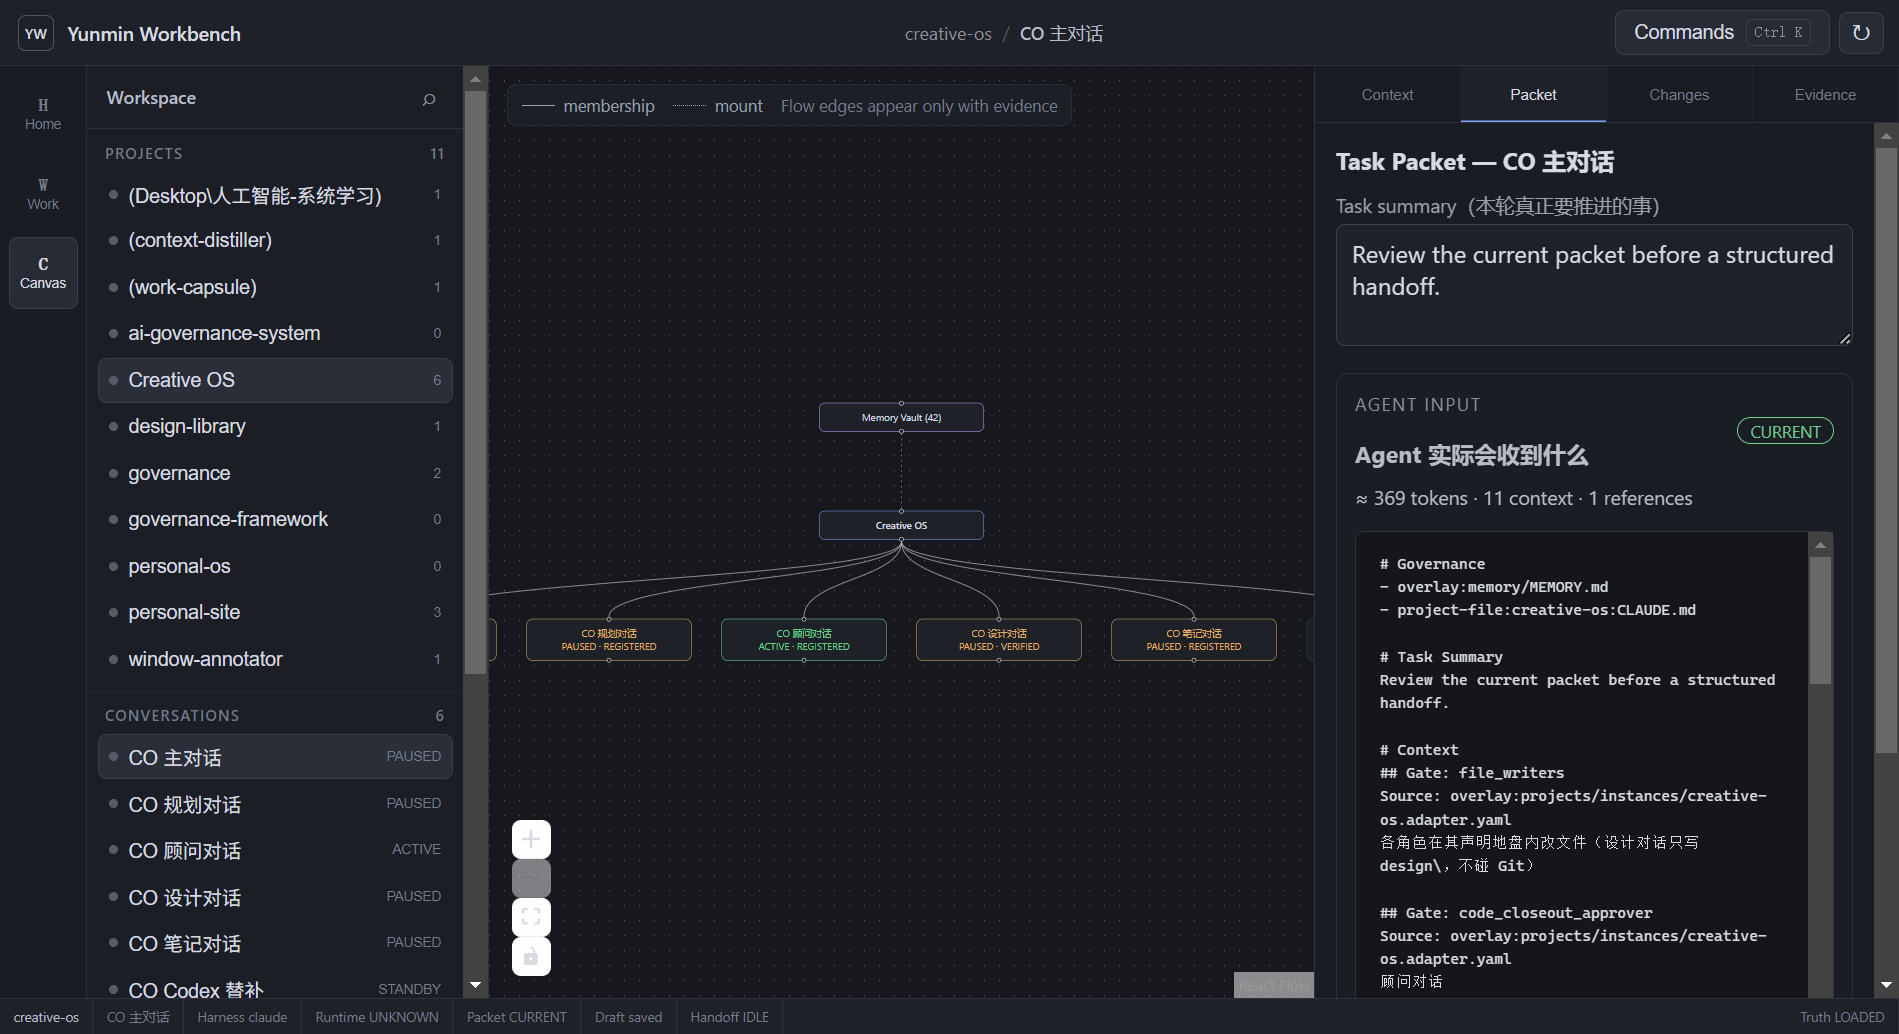
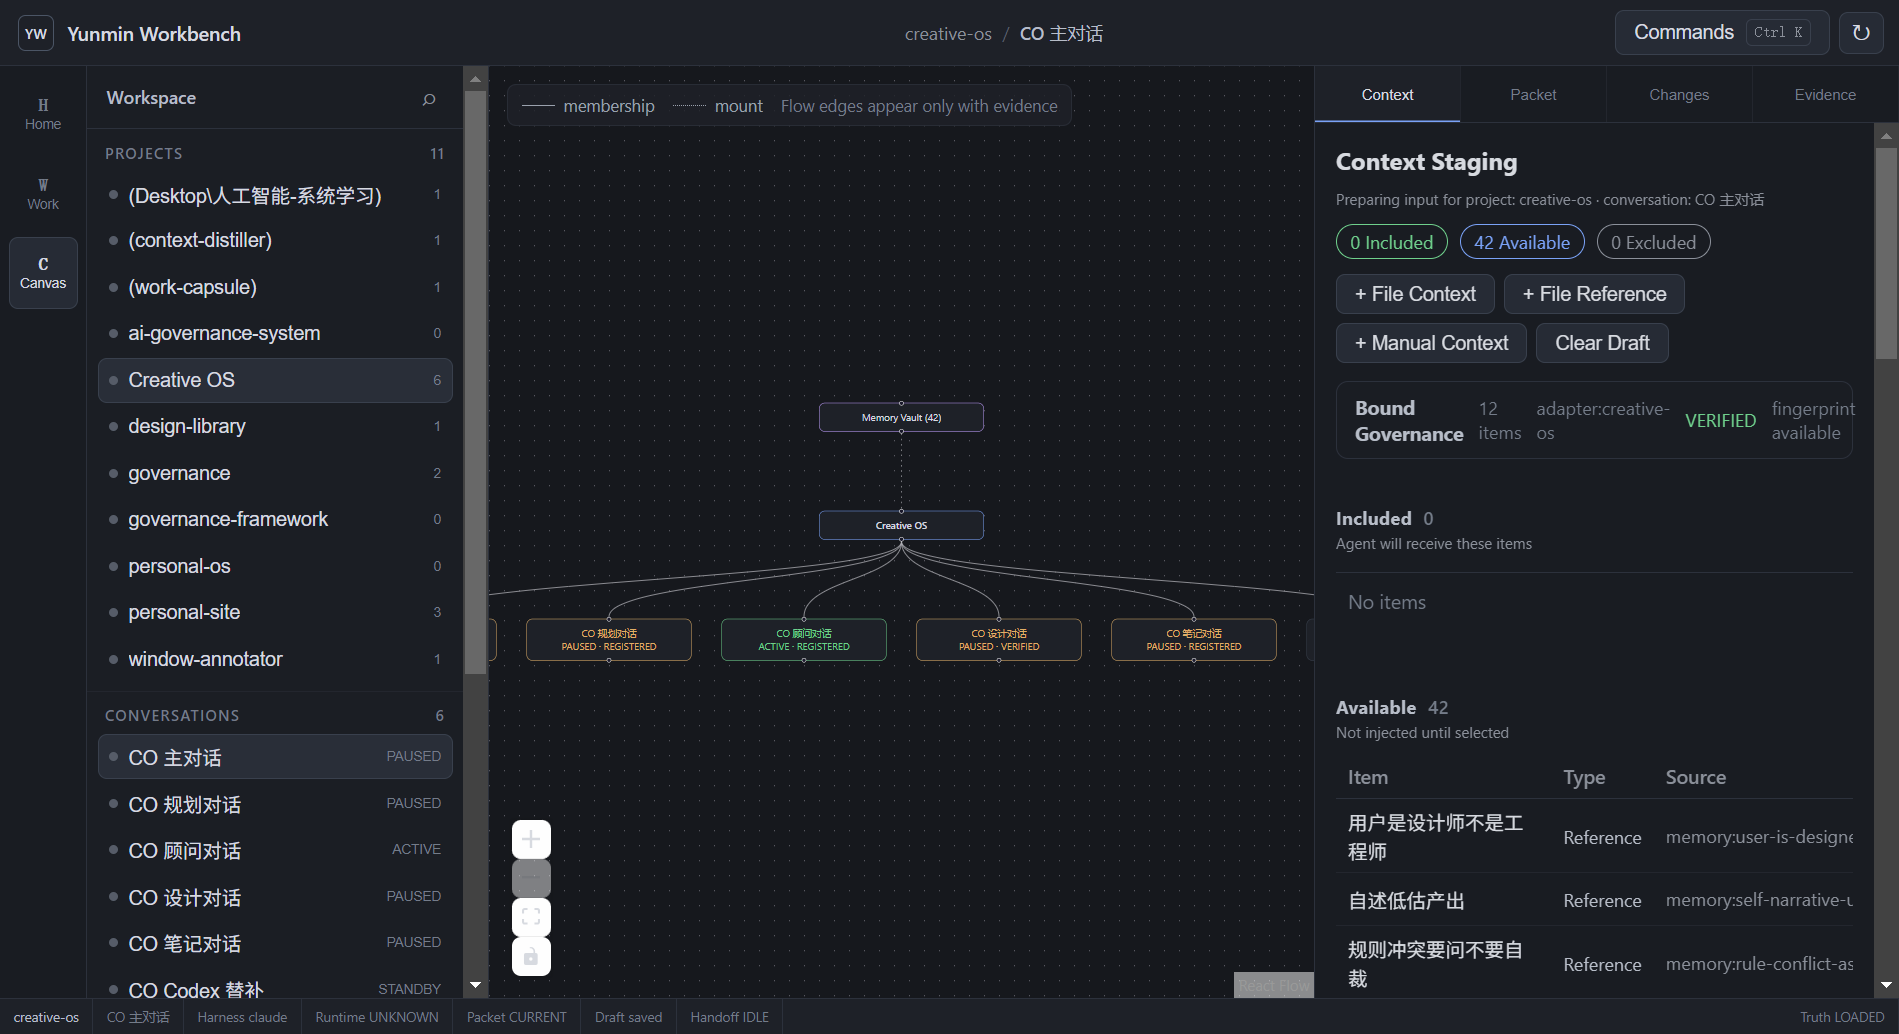
test(ui): integrate harness shell with reliability gate

Changed region(s): [[0.6835, 0.3404, 1.0, 0.9594], [0.6835, 0.0928, 0.9631, 0.3404], [0.8078, 0.3714, 0.8699, 0.4023]]

diff --git a/e2e/workbench.spec.ts b/e2e/workbench.spec.ts
@@ -1,5 +1,5 @@
 import { createHash } from 'node:crypto';
-import { existsSync, mkdirSync, mkdtempSync, readFileSync, readdirSync } from 'node:fs';
+import { existsSync, mkdtempSync, readFileSync, readdirSync } from 'node:fs';
 import { tmpdir } from 'node:os';
 import { join } from 'node:path';
 import { spawnSync } from 'node:child_process';
@@ -15,7 +15,7 @@ const hash = (p: string) => createHash('sha256').update(readFileSync(p)).digest(
 test.describe('Yunmin Workbench vertical slice (real overlay, read-only)', () => {
   test.skip(!hasOverlay, 'real overlay not present on this machine');
 
-  test('Projects -> Control Room -> Canvas -> Context Staging -> Packet Freeze', async () => {
+  test('Workspace -> Session -> Canvas -> Context Inspector -> Packet Freeze', async () => {
     // evidence for "UI never writes back into the overlay"
     const inboxBefore = hash(join(OVERLAY, 'INBOX.md'));
     const memoryBefore = hash(join(OVERLAY, 'memory', 'MEMORY.md'));
@@ -27,44 +27,39 @@ test.describe('Yunmin Workbench vertical slice (real overlay, read-only)', () =>
       env: { ...process.env, WB_STATE_DIR: stateDir },
     });
     const win = await app.firstWindow();
-    const screenshotDir = join(process.cwd(), 'screenshots', 'harness-grade-productization-20260826');
-    mkdirSync(screenshotDir, { recursive: true });
-
-    // Projects
-    await expect(win.locator('.brand')).toHaveText('Yunmin Workbench');
-    await win.screenshot({ path: join(screenshotDir, '01-projects.png') });
+    // Workspace shell
+    await expect(win.locator('.titlebar-brand')).toContainText('Yunmin Workbench');
     await win.keyboard.press('Control+K');
     const commandInput = win.locator('[cmdk-input]');
     await expect(commandInput).toBeFocused();
-    await commandInput.fill('Open Project Creative OS');
-    await expect(win.locator('[cmdk-item]', { hasText: 'Open Project · Creative OS' })).toBeVisible();
+    await commandInput.fill('Open Workspace Creative OS');
+    await expect(win.locator('[cmdk-item]', { hasText: 'Open Workspace · Creative OS' })).toBeVisible();
     await win.keyboard.press('Escape');
-    const card = win.locator('.project-card', { hasText: 'Creative OS' });
-    await expect(card).toBeVisible();
-    await expect(card.locator('.source-summary')).toBeVisible();
-    await card.click();
+    const project = win.locator('.sidebar-projects button', { hasText: 'Creative OS' });
+    await expect(project).toBeVisible();
+    await project.click();
 
-    // Control Room shows real registry data
-    await expect(win.locator('h2', { hasText: 'Creative OS' })).toBeVisible();
-    await expect(win.locator('.convo').first()).toBeVisible();
-    await expect(win.locator('.binding-summary')).toBeVisible();
-    await win.screenshot({ path: join(screenshotDir, '02-control-room.png') });
+    // Sidebar projects current registry conversations into the work surface.
+    const conversation = win.locator('.sidebar-conversations button').first();
+    await expect(conversation).toBeVisible();
+    await conversation.click();
+    await expect(win.locator('.session-surface')).toBeVisible();
 
-    // Canvas: projection nodes, click a conversation -> Context
-    await win.locator('nav button', { hasText: 'Canvas' }).click();
+    // Canvas: projection nodes render, then returning to Work preserves the selected Session.
+    await win.getByRole('button', { name: 'Canvas' }).click();
     await expect(win.locator('.wb-project')).toBeVisible();
     await expect(win.locator('.canvas-hint')).toHaveCount(0);
     const convoNode = win.locator('.wb-conversation').first();
     await expect(convoNode).toBeVisible();
-    await win.screenshot({ path: join(screenshotDir, '03-canvas.png') });
-    await convoNode.click();
+    await win.locator('.harness-rail').getByRole('button', { name: 'Work', exact: true }).click();
+    await expect(win.locator('.session-surface')).toBeVisible();
 
-    // Context Staging: toggle one available item to included
+    // Context Inspector: toggle one available item to included.
+    await win.getByRole('tab', { name: 'Context' }).click();
     await expect(win.locator('h2', { hasText: 'Context Staging' })).toBeVisible();
     const governanceContext = win.locator('details.governance-context');
     await expect(governanceContext).toBeVisible();
     await expect(governanceContext).not.toHaveAttribute('open', '');
-    await win.screenshot({ path: join(screenshotDir, '04-context-staging.png') });
     await win.locator('button', { hasText: '+ Manual Context' }).click();
     await win.locator('.manual-context-form input').fill('E2E user context');
     await win.locator('.manual-context-form textarea').fill('User supplied text that must reach the Harness.');
@@ -76,14 +71,13 @@ test.describe('Yunmin Workbench vertical slice (real overlay, read-only)', () =>
     // Packet: fill summary, freeze
     await win.keyboard.press('Control+5');
     await expect(win.locator('h2', { hasText: 'Task Packet' })).toBeVisible();
-    await win.locator('textarea').fill('E2E 冒烟：验证 Freeze 链路');
+    await win.locator('.inspector-pane textarea').fill('E2E 冒烟：验证 Freeze 链路');
     await expect(win.locator('.validity-current')).toBeVisible();
     if (hasCodex) {
       await expect(win.locator('button', { hasText: 'Send to Codex' })).toBeEnabled();
     } else {
       await expect(win.locator('button', { hasText: 'Send to Codex' })).toBeDisabled();
     }
-    await win.screenshot({ path: join(screenshotDir, '05-packet-preview.png') });
     const previewText = await win.locator('.agent-input-text').textContent();
     await win.locator('button', { hasText: 'Copy Agent Input' }).click();
     const copiedText = await app.evaluate(({ clipboard }) => clipboard.readText());
@@ -104,7 +98,7 @@ test.describe('Yunmin Workbench vertical slice (real overlay, read-only)', () =>
 
     // Debounced Workbench-owned draft survives a full application restart.
     await win.waitForTimeout(700);
-    await expect(win.locator('.workspace-status')).toContainText('Draft saved');
+    await expect(win.locator('.status-bar')).toContainText('Draft saved');
     await app.evaluate(({ BrowserWindow }) => BrowserWindow.getAllWindows()[0].setBounds({ width: 1100, height: 740 }));
     await win.waitForTimeout(500);
     await app.close();
@@ -113,14 +107,14 @@ test.describe('Yunmin Workbench vertical slice (real overlay, read-only)', () =>
       env: { ...process.env, WB_STATE_DIR: stateDir },
     });
     const resumed = await app.firstWindow();
-    await expect(resumed.locator('.brand')).toHaveText('Yunmin Workbench');
+    await expect(resumed.locator('.titlebar-brand')).toContainText('Yunmin Workbench');
     const resumedBounds = await app.evaluate(({ BrowserWindow }) => BrowserWindow.getAllWindows()[0].getBounds());
     expect(resumedBounds.width).toBe(1100);
     expect(resumedBounds.height).toBe(740);
     // Workspace continuity restores the exact project/conversation/view after fresh truth loads.
-    await expect(resumed.locator('textarea')).toHaveValue('E2E 冒烟：验证 Freeze 链路');
-    await expect(resumed.locator('li', { hasText: 'v1' })).toBeVisible();
-    await resumed.locator('button.refresh').click();
+    await expect(resumed.locator('.inspector-pane textarea')).toHaveValue('E2E 冒烟：验证 Freeze 链路');
+    await expect(resumed.locator('.frozen-row', { hasText: 'v1' })).toBeVisible();
+    await resumed.getByRole('button', { name: 'Reload external truth' }).click();
     await expect(resumed.locator('.validity-current').first()).toBeVisible();
     const resumedPreview = await resumed.locator('.agent-input-text').textContent();
     await resumed.locator('button', { hasText: 'Copy Agent Input' }).click();

diff --git a/e2e/reliability.spec.ts b/e2e/reliability.spec.ts
@@ -1,5 +1,5 @@
-import { spawn, spawnSync } from 'node:child_process';
-import { existsSync, mkdtempSync } from 'node:fs';
+import { spawn } from 'node:child_process';
+import { existsSync, mkdtempSync, mkdirSync } from 'node:fs';
 import { tmpdir } from 'node:os';
 import { join } from 'node:path';
 import type { ElectronApplication, Page } from '@playwright/test';
@@ -7,15 +7,14 @@ import { _electron as electron, expect, test } from '@playwright/test';
 
 const OVERLAY = 'D:\\ai-governance-system';
 const hasOverlay = existsSync(join(OVERLAY, 'overlay.yaml'));
-const hasCodex = spawnSync('codex', ['--version'], { windowsHide: true }).status === 0;
 
-async function launch(stateDir: string): Promise<{ app: ElectronApplication; win: Page }> {
+async function launch(stateDir: string, env: NodeJS.ProcessEnv = process.env): Promise<{ app: ElectronApplication; win: Page }> {
   const app = await electron.launch({
     args: ['out/main/index.js'],
-    env: { ...process.env, WB_STATE_DIR: stateDir },
+    env: { ...env, WB_STATE_DIR: stateDir },
   });
   const win = await app.firstWindow();
-  await expect(win.locator('.brand')).toHaveText('Yunmin Workbench');
+  await expect(win.locator('.titlebar-brand')).toContainText('Yunmin Workbench');
   return { app, win };
 }
 
@@ -23,12 +22,13 @@ test.describe('reliability gate (P0 containment)', () => {
   test.skip(!hasOverlay, 'real overlay not present on this machine');
 
   test('missing Codex executable keeps the app alive with structured unavailable capability', async () => {
-    test.skip(hasCodex, 'codex is on PATH on this machine; missing-PATH behavior covered on machines without it');
     const stateDir = mkdtempSync(join(tmpdir(), 'wb-e2e-nocodex-'));
-    const { app, win } = await launch(stateDir);
+    const emptyPath = join(stateDir, 'empty-path');
+    mkdirSync(emptyPath);
+    const { app, win } = await launch(stateDir, { ...process.env, PATH: emptyPath });
 
-    await win.locator('.project-card', { hasText: 'Creative OS' }).click();
-    await win.locator('.convo').first().click();
+    await win.locator('.sidebar-projects button', { hasText: 'Creative OS' }).click();
+    await win.locator('.sidebar-conversations button').first().click();
     await win.keyboard.press('Control+5');
     await expect(win.locator('h2', { hasText: 'Task Packet' })).toBeVisible();
 
@@ -37,7 +37,7 @@ test.describe('reliability gate (P0 containment)', () => {
     expect(evidence.canDispatch).toBe(false);
     expect(evidence.evidence).toContain('unavailable');
 
-    await expect(win.locator('.brand')).toHaveText('Yunmin Workbench');
+    await expect(win.locator('.titlebar-brand')).toContainText('Yunmin Workbench');
     await app.close();
   });
 
@@ -54,7 +54,7 @@ test.describe('reliability gate (P0 containment)', () => {
       new Promise<string>((resolve) => setTimeout(() => resolve('timeout'), 20_000)),
     ]);
     expect(exited).toMatch(/^exit:/);
-    await expect(win.locator('.brand')).toBeVisible();
+    await expect(win.locator('.titlebar-brand')).toBeVisible();
     await app.close();
   });
 });

diff --git a/e2e/frozen-corruption.spec.ts b/e2e/frozen-corruption.spec.ts
@@ -100,10 +100,10 @@ test.describe('frozen corruption containment', () => {
       env: { ...process.env, WB_STATE_DIR: stateDir },
     });
     const win = await app.firstWindow();
-    await expect(win.locator('.brand')).toHaveText('Yunmin Workbench');
+    await expect(win.locator('.titlebar-brand')).toContainText('Yunmin Workbench');
 
-    await win.locator('.project-card', { hasText: 'Creative OS' }).click();
-    await win.locator('.convo').first().click();
+    await win.locator('.sidebar-projects button', { hasText: 'Creative OS' }).click();
+    await win.locator('.sidebar-conversations button').first().click();
     await win.keyboard.press('Control+5');
     await expect(win.locator('h2', { hasText: 'Task Packet' })).toBeVisible();
 
@@ -131,13 +131,13 @@ test.describe('frozen corruption containment', () => {
       env: { ...process.env, WB_STATE_DIR: stateDir },
     });
     const win = await app.firstWindow();
-    await expect(win.locator('.brand')).toHaveText('Yunmin Workbench');
+    await expect(win.locator('.titlebar-brand')).toContainText('Yunmin Workbench');
 
-    await win.locator('.project-card', { hasText: 'Creative OS' }).click();
-    await win.locator('.convo').first().click();
+    await win.locator('.sidebar-projects button', { hasText: 'Creative OS' }).click();
+    await win.locator('.sidebar-conversations button').first().click();
     await win.keyboard.press('Control+5');
     await expect(win.locator('h2', { hasText: 'Task Packet' })).toBeVisible();
-    await win.locator('textarea').fill('Corruption recovery freeze');
+    await win.locator('.inspector-pane textarea').fill('Corruption recovery freeze');
     await expect(win.locator('.validity-current')).toBeVisible();
     await win.locator('button.primary', { hasText: 'Freeze Current Task Packet' }).click();
     await expect(win.locator('p.ok')).toContainText('v1');
